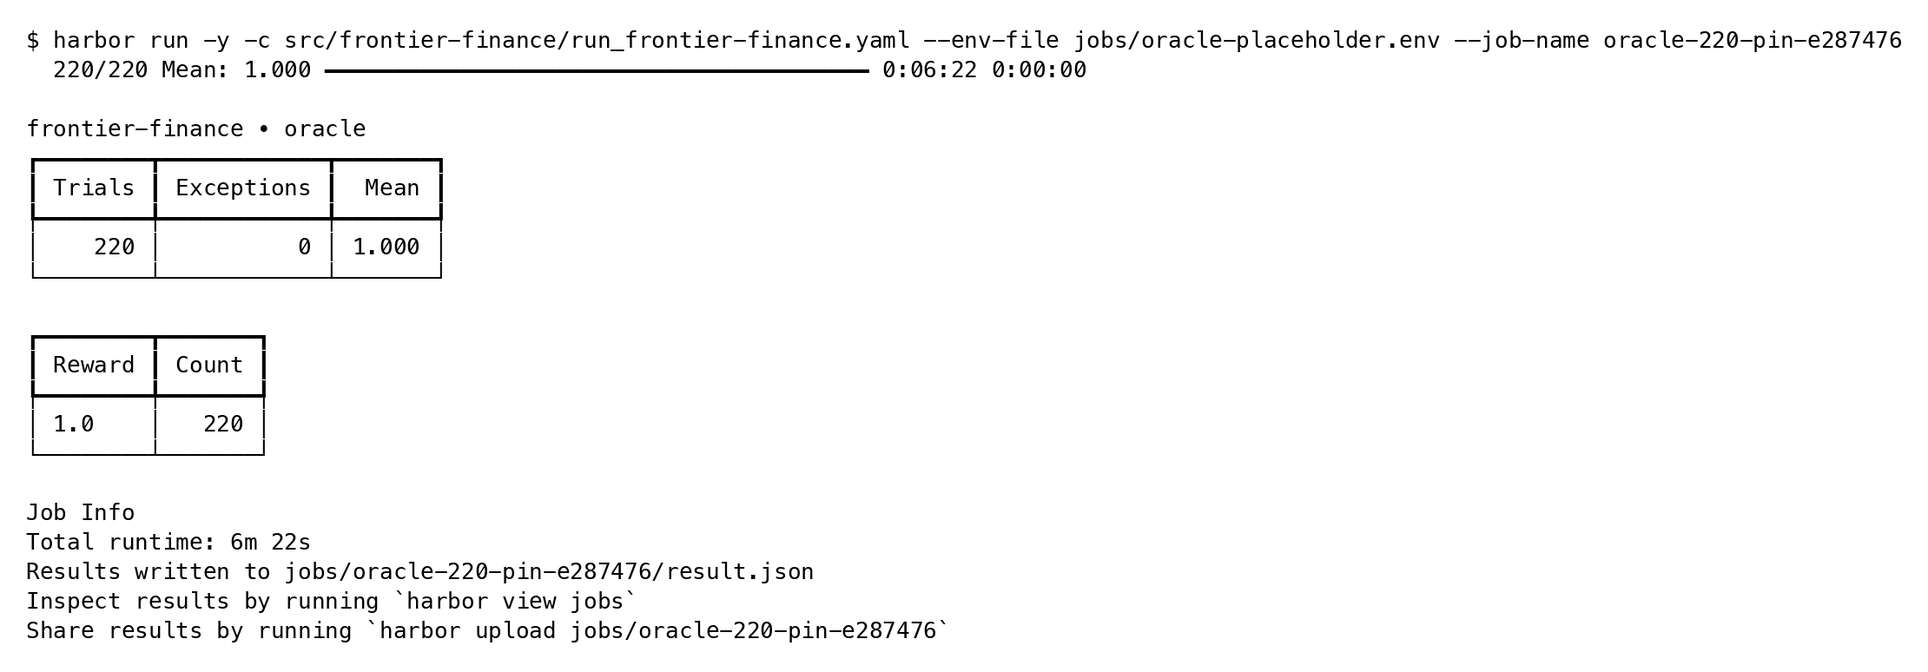
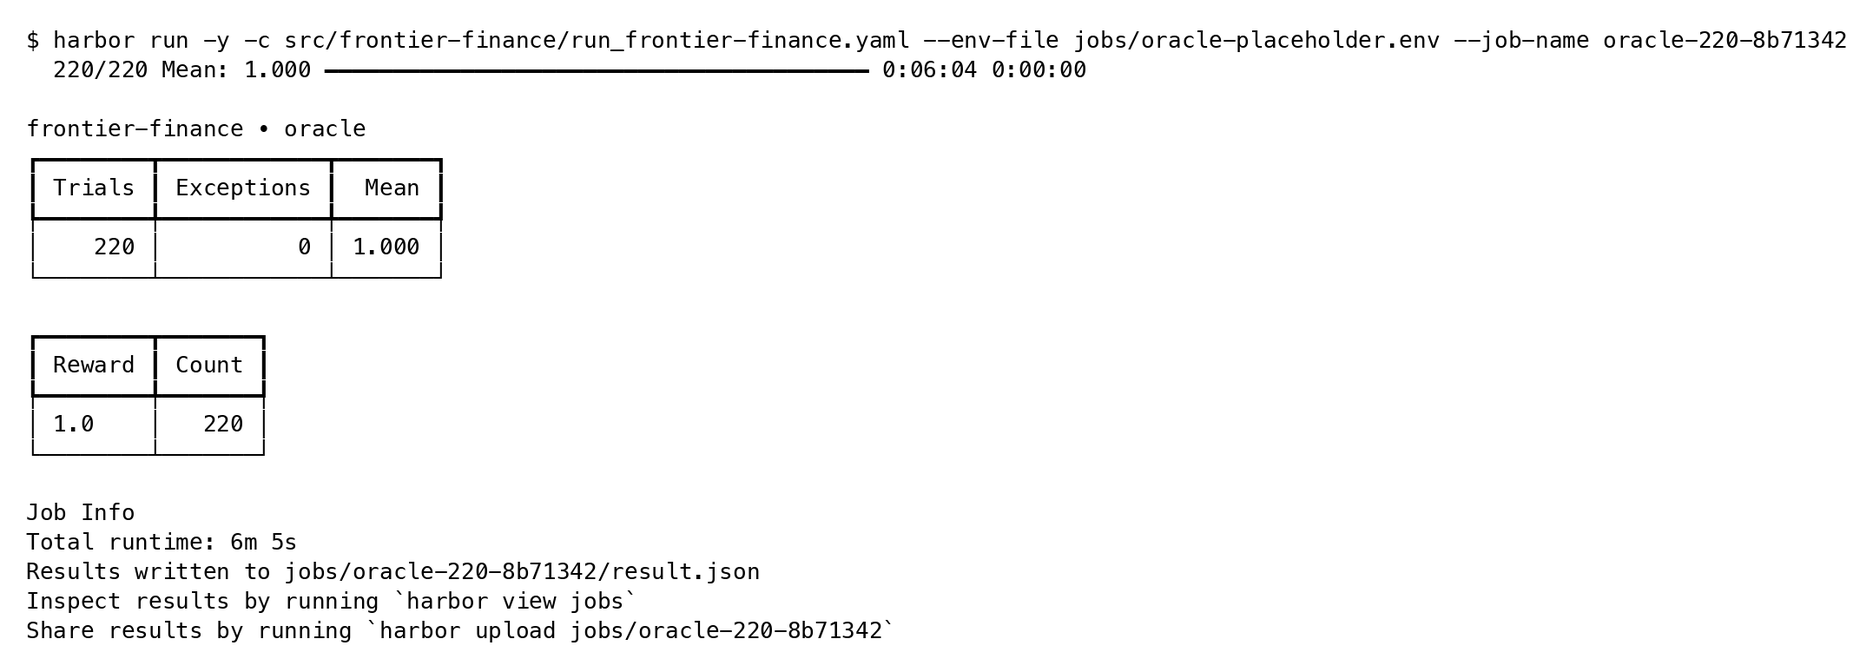
frontier-finance: grade with the unmodified upstream grader and judge panel
Pin the grader back to upstream 8b71342 and drop the parity judge panel.
Parity is the same 66 reports regraded with the upstream panel:
original 0.3334 +/- 0.0026, Harbor 0.3648 +/- 0.0272, ranges overlap.
Oracle 220/220 rerun at 8b71342.

diff --git a/src/frontier-finance/src/frontier_finance/task-template/tests/grade.py b/src/frontier-finance/src/frontier_finance/task-template/tests/grade.py
@@ -1,7 +1,6 @@
 """Grade /app/report.md with the upstream FrontierFinance grader.
 
-Uses the upstream ``frontier_finance`` package (pinned in the Dockerfile: upstream
-8b71342 plus one judge-compatibility change in judges.py) with
+Uses the unmodified ``frontier_finance`` package (pinned in the Dockerfile) with
 the judge panel and settings from upstream ``eval.example.yaml``, which the
 FrontierFinance authors used for their reported numbers.
 

diff --git a/src/frontier-finance/README.md b/src/frontier-finance/README.md
@@ -5,9 +5,9 @@
 FrontierFinance evaluates finance AI agents on open-ended, long-form research questions asked by investment professionals: company research, earnings and events, financial data and modeling, sector/industry/macro analysis, coverage and catalyst monitoring, and screening and discovery. Answers are free-form English reports graded against expert-authored rubrics by an LLM judge panel.
 
 - **Size:** 220 queries with 11,543 rubrics (3 to 475 rubrics per query, median 27; 65% marked `must_have`). This adapter converts **all 220 queries into 220 Harbor tasks** (one task per query). No queries are excluded.
-- **Provenance:** [samaya-ai/FrontierFinance](https://huggingface.co/datasets/samaya-ai/FrontierFinance) (Hugging Face dataset, revision `36afd6dc1cbb2c4512536daf917dc28b1225a720`) and the official grader [samaya-ai/frontier-finance](https://github.com/samaya-ai/frontier-finance) (commit `8b71342dc7730eb1803dd3934e17bc71c9922ec5`), installed from the parity fork's commit [`e287476`](https://github.com/Chaoqi31/frontier-finance/commit/e28747624053c3caca98489db9144c7c9372b34c), which adds one judge-compatibility change.
+- **Provenance:** [samaya-ai/FrontierFinance](https://huggingface.co/datasets/samaya-ai/FrontierFinance) (Hugging Face dataset, revision `36afd6dc1cbb2c4512536daf917dc28b1225a720`) and the official grader [samaya-ai/frontier-finance](https://github.com/samaya-ai/frontier-finance) (commit `8b71342dc7730eb1803dd3934e17bc71c9922ec5`), installed unmodified.
 - **License:** dataset CC-BY-4.0, grader Apache-2.0. The dataset is gated on Hugging Face; its terms ask users not to reshare it outside a gated or private repository.
-- **Main adaptation:** the original benchmark only grades responses produced by an external system. Here, the query becomes an agent instruction, the agent writes its report to `/app/report.md`, and the verifier runs the upstream grader on that report (upstream `8b71342` plus one judge-compatibility change, see Adapter Features).
+- **Main adaptation:** the original benchmark only grades responses produced by an external system. Here, the query becomes an agent instruction, the agent writes its report to `/app/report.md`, and the verifier runs the unmodified upstream grader on that report.
 
 ## What is FrontierFinance?
 
@@ -17,7 +17,7 @@ FrontierFinance ([blog](https://samaya.ai/blog/frontier-finance), [website](http
 
 - **Data loading:** downloads `frontier_finance_public.jsonl` from Hugging Face at a pinned revision (requires accepting the dataset terms and `hf auth login` / `HF_TOKEN`), or reads a local copy via `--data-path`.
 - **Stable task IDs:** `frontier-finance-<query_id>`, using the upstream 16-hex `query_id`; task names are `samaya-ai/frontier-finance__<query_id>`.
-- **Upstream grading:** the Docker image installs the `frontier-finance` grader at a pinned commit in an isolated virtualenv (`/opt/ff-grader`), using upstream's `uv.lock` so the judge SDK versions (anthropic 0.116.0, google-genai 2.10.0, openai 2.44.0) match upstream. `tests/grade.py` builds the upstream `EvalItem` from the task's rubrics and the agent's report and calls the upstream `Grader` with the judge panel and settings from upstream `eval.example.yaml` (`max_rubrics_per_call=30`, `max_tokens=32000`, `request_timeout=120`, `max_retries=2`, `max_json_parse_retries=1`). Prompts, batching, parsing, and majority voting are the upstream code. The pinned commit is upstream `8b71342` plus one change in `judges.py`, so that newer judge models accept the grader's requests: no `temperature` for Claude Haiku 5+ and GPT-6+, and `LOW` thinking when a Gemini 3 Flash model rejects `MINIMAL`. Requests to the default panel are unchanged.
+- **Upstream grading:** the Docker image installs the `frontier-finance` grader at a pinned commit in an isolated virtualenv (`/opt/ff-grader`), using upstream's `uv.lock` so the judge SDK versions (anthropic 0.116.0, google-genai 2.10.0, openai 2.44.0) match upstream. `tests/grade.py` builds the upstream `EvalItem` from the task's rubrics and the agent's report and calls the upstream `Grader` with the judge panel and settings from upstream `eval.example.yaml` (`max_rubrics_per_call=30`, `max_tokens=32000`, `request_timeout=120`, `max_retries=2`, `max_json_parse_retries=1`). Prompts, batching, parsing, and majority voting are the upstream code. The grader code is upstream `8b71342`, unchanged.
 - **Reward:** `reward` in `/logs/verifier/reward.json` is the task's rubric qualification rate, so over trials that produce a reward the Harbor mean equals upstream `macro_avg_qualification_rate_on_all_queries` (see Notes & Caveats for trials without a reward). Per-rubric judgements and the `must_have` qualification rate are written to `/logs/verifier/grading.json`.
 - **Rubrics hidden from the agent:** rubrics live only in `tests/`, which Harbor copies in after the agent finishes.
 - **Internet access:** the agent needs web access for research, set explicitly with `network_mode = "public"` on the agent and the verifier. The verifier calls the Anthropic, Google, and OpenAI APIs.
@@ -125,27 +125,30 @@ Available flags:
 
 Parity matches: the run-score ranges of the two sides overlap (table below). Upstream ships a grader but no agent harness, so this is Scenario 2 of the adapter guide: a fork of the original benchmark adds a runner for a standard Harbor agent, and the same agent runs on both sides. The agent is `claude-code`, as in DeepSynth, Seal-0 and WideSearch, pinned to version 2.1.330 on both sides, with `claude-haiku-5-5` through the parity gateway. Each side runs the parity subset three times.
 
-**Model and judges.** Parity checks the adaptation, not model ability, so it uses cheap models, as agreed with the Harbor team. The judges are current cheap models from the three upstream judge vendors, in upstream's order: `claude-haiku-5-5`, `gemini-3.8-flash`, `gpt-6-luna` (`FF_JUDGE_MODELS` in `run_frontier-finance_parity.yaml`, `judge_models` in the fork's `harbor_parity/eval.parity.yaml`). The same panel grades both sides, so parity holds; the scores are not comparable with the upstream leaderboard, which uses the full panel. The Claude judge and the agent model share a vendor; any self-preference applies equally to both sides, so it does not affect the parity comparison. The task default stays the upstream panel. The grader carries one compatibility change in `frontier_finance/judges.py` for these newer judges, which the pinned upstream commit predates: no `temperature` for Claude Haiku 5+ and GPT-6+, which reject it, and `LOW` thinking when a Gemini 3 Flash model rejects `MINIMAL`. Prompts, batching, parsing and voting are unchanged, and the upstream panel is sent the same requests as before. Both sides install the grader from the same fork commit.
+**Model and judges.** Parity checks the adaptation, not model ability, so the agent uses a cheap model, as agreed with the Harbor team. Both sides are graded by the unmodified upstream grader at `8b71342` with upstream's judge panel and settings: `claude-sonnet-4-6`, `gemini-3.1-pro-preview`, `gpt-5.4` (the task default on the Harbor side; on the original side the fork's `harbor_parity/eval.parity.yaml`, which differs from upstream `eval.example.yaml` only in its paths). The Claude judge and the agent model share a vendor; any self-preference applies equally to both sides, so it does not affect the parity comparison. Grading matches upstream, but the scores are not comparable with the upstream leaderboard, because the agent, the model and the 11-task subset differ from the published systems.
 
 **Parity subset.** As agreed with the Harbor team, parity runs on 5% of the benchmark: 11 of the 220 queries (`--split parity`). Parity checks that the adaptation is faithful, not model ability, so a small representative subset is enough. Each query has exactly one use case, so the subset is stratified by use case: the 11 slots are allocated in proportion to each use case's share by largest remainder (financial data and modeling 3; company research, earnings and events, sector and macro 2 each; coverage and catalyst monitoring, screening and discovery 1 each), and the queries are drawn with `random.Random(0)` (`parity_subset` in `adapter.py`). The subset has 424 rubrics (6 to 84 per query) and spans query dates from 2024-08 to 2026-04. Its query IDs: `0de600d0386ab53c`, `7dc0e678415f1fd4`, `8d7ee1f40b5244a7`, `9488d3698bafd842`, `a7606d2a0a4bea29`, `bc435f09355f23bc`, `c1d3968daefa7a8e`, `e10acfd0ef14a72c`, `e74672d9b526d701`, `f84db8e5d5d58f43`, `f89b633e396a1d7d`.
 
 | Agent | Model | Metric | Number of Runs | Dataset Size | Original Benchmark Performance | Harbor Adapter Performance |
 |-------|-------|--------|------------------|--------------|------------------------------|----------------------------|
-| claude-code@2.1.330 | claude-haiku-5-5 | Macro rubric qualification rate | 3 | 11 tasks (5% of 220) | 0.3189 ± 0.0207 | 0.3448 ± 0.0326 |
+| claude-code@2.1.330 | claude-haiku-5-5 | Macro rubric qualification rate | 3 | 11 tasks (5% of 220) | 0.3334 ± 0.0026 | 0.3648 ± 0.0272 |
 
-Scores are mean ± sample SEM over runs, as fractions. Original runs: 0.3272, 0.3499, 0.2795 (range 0.280 to 0.350). Harbor runs: 0.4064, 0.2957, 0.3324 (range 0.296 to 0.406). The ranges overlap. Paired by task (Harbor minus original, each task's mean over its three runs), the difference is +0.026 with a 95% interval of [-0.027, +0.079] over the 11 tasks: 5 tasks higher on Harbor, 4 lower, 2 equal. So the experiment rules out a difference larger than about 0.08 in Harbor's favour or 0.03 against it on these tasks. One task, `8d7ee1f4`, scored higher on Harbor in all three runs (0.50 to 0.59 against 0.27 to 0.41); in the first set of original-side runs below it scored 0.55, 0.55 and 0.18, so it is a high-variance task rather than a systematic gap (one Harbor run answered it from memory in two turns and still scored 0.55).
+Scores are mean ± sample SEM over runs, as fractions. Original runs: 0.3355, 0.3365, 0.3281 (range 0.328 to 0.337). Harbor runs: 0.4144, 0.3208, 0.3591 (range 0.321 to 0.414). The ranges overlap. Paired by task (Harbor minus original, each task's mean over its three runs), the difference is +0.031 with a 95% interval of [-0.021, +0.083] over the 11 tasks: 7 tasks higher on Harbor, 4 lower. So the experiment rules out a difference larger than about 0.08 in Harbor's favour or 0.02 against it on these tasks. One task, `8d7ee1f4`, scored higher on Harbor in all three runs (0.55 to 0.59 against 0.36 to 0.41). With three runs per side, the chance that one task's six runs separate completely with no real difference is 2/C(6,3) = 0.1, so about 1 of the 11 tasks is expected to do so by chance. In the first set of original-side runs below it scored 0.55, 0.55 and 0.18 (earlier panel), and report lengths show no systematic difference (the Harbor report is longer on 6 of 11 tasks, median length ratio 1.00). It is read as run-to-run variance; no extra runs were made.
 
-All 66 agent runs (11 queries × 3 runs × 2 sides) ended with claude-code status `success` and a report, so no run was rerun, and all three judges voted on every query, so no query needed a regrade.
+All 66 agent runs (11 queries × 3 runs × 2 sides) ended with claude-code status `success` and a report, so no run was rerun, and all three judges voted on every query, so no query needed a regrade. No report matched an oracle report, so every query went through the judges.
 
-**Two sets of original-side runs.** The original side was run twice. In the first set, its install step used `apt-get install -y --no-install-recommends curl bash nodejs npm procps` at image build time, while Harbor runs `apt-get update && apt-get install -y nodejs npm procps` at agent setup (the image already has curl and bash), which also pulls in Debian's recommended packages. That set (0.3868, 0.4017, 0.2734; 0.3540 ± 0.0405) also overlapped the Harbor runs. To make the install step identical, the runner now uses Harbor's exact command (fork commit `ada6995`) and the original side was run three more times; those runs are the ones reported above. The first set's artifacts are kept in the fork's run records.
+**Earlier runs and gradings.** The reported numbers are the third comparison; all three overlapped.
+1. A first set of original-side runs, graded like the Harbor runs with a cheap judge panel (`claude-haiku-5-5`, `gemini-3.8-flash`, `gpt-6-luna`) through a grader fork that let the pinned commit call these newer models: original 0.3868, 0.4017, 0.2734 (0.3540 ± 0.0405), Harbor 0.4064, 0.2957, 0.3324 (0.3448 ± 0.0326). Its install step used `apt-get install -y --no-install-recommends curl bash nodejs npm procps` at image build time, while Harbor runs `apt-get update && apt-get install -y nodejs npm procps` at agent setup (the image already has curl and bash), which also pulls in Debian's recommended packages.
+2. To make the install step identical, the runner now uses Harbor's exact command (fork commit `ada6995`), and the original side was run three more times. With the cheap panel: original 0.3272, 0.3499, 0.2795 (0.3189 ± 0.0207) against the same Harbor runs.
+3. To drop the grader change, the 33 original-side reports of step 2 and the 33 Harbor reports were regraded with the upstream panel and the unmodified grader (the upstream CLI on the original side, `harbor job regrade` on the Harbor side). This switch was decided before the regrade's outcome was known. These are the numbers in the table. The agent runs were not repeated, so the Harbor agent containers still held the earlier grader fork in `/opt/ff-grader`, which the agent does not use; grading ran in fresh verifier containers built with the unmodified grader.
 
-**Cross-grade.** The 11 reports of Harbor run 2 were also graded twice with the upstream CLI (`collect --summaries`, then `frontier-finance-grader` with `harbor_parity/eval.parity.yaml`). Over the 424 rubric labels, Harbor and the CLI agree on 417 (98.3%) and 414 (97.6%), and the two CLI gradings agree with each other on 413 (97.4%). The macro is 0.2957 in Harbor and 0.3065 and 0.2958 from the CLI. The parity judges run without `temperature=0` (Claude Haiku 5+ and GPT-6+ reject it), so repeated gradings of one report differ on a few rubrics; the Harbor and CLI paths differ no more than the CLI differs from itself.
+**Cross-grade (earlier panel).** Before the switch, the 11 reports of Harbor run 2 were also graded twice with the upstream CLI and the cheap panel (`collect --summaries`, then `frontier-finance-grader`). Over the 424 rubric labels, Harbor and the CLI agree on 417 (98.3%) and 414 (97.6%), and the two CLI gradings agree with each other on 413 (97.4%). The macro is 0.2957 in Harbor and 0.3065 and 0.2958 from the CLI. Those judges ran without `temperature=0`, so repeated gradings of one report differ on a few rubrics; the Harbor and CLI paths differ no more than the CLI differs from itself. The check compares the two grading paths, which run the same grader code either way.
 
-Both sides ran on Daytona, 8 at a time, through the same gateway. Everything (judge checks, sanity run, both sets of original-side runs, the Harbor runs and the cross-grades) cost about $11.70 on the gateway's billing; claude-code reports $8.69 of it for the 99 agent runs.
+Both sides ran on Daytona, 8 at a time, through the same gateway. Everything (judge checks, sanity run, both sets of original-side runs, the Harbor runs, the cross-grades and the upstream-panel regrade) cost about $22.30 on the gateway's billing. The regrade of 66 reports with the upstream panel was $10.40 of it, and claude-code reports $8.69 for the 99 agent runs.
 
 Both sides run the same `claude-code` version and model with Harbor's flags (`--verbose --output-format=stream-json --permission-mode=bypassPermissions --print`) and environment variables, including the model aliases Harbor sets for a custom base URL. Host variables that Harbor reads into claude-code's flags or environment (`CLAUDE_CODE_MAX_TURNS`, `CLAUDE_CODE_EFFORT_LEVEL`, `MAX_THINKING_TOKENS`, `CLAUDE_CODE_MAX_OUTPUT_TOKENS`, `CLAUDE_CODE_DISABLE_ADAPTIVE_THINKING`, the alias variables) stay unset on both sides; the original-side runner refuses to start if any is set. Both use the same `instruction.md` on stdin, the same 3600 s agent limit and resources from `task.toml`, and the same concurrency. The original side runs each query in a fresh container built from the task's own `environment/Dockerfile` plus Harbor's claude-code install step, and `/app/report.md` becomes the query's `system_summary` for the upstream grader.
 
-- Original parity repository: [Chaoqi31/frontier-finance, branch `harbor-parity`](https://github.com/Chaoqi31/frontier-finance/tree/harbor-parity/harbor_parity), a fork of [samaya-ai/frontier-finance](https://github.com/samaya-ai/frontier-finance) @ `8b71342` that adds `harbor_parity/` and the judge-compatibility change in `frontier_finance/judges.py`
+- Original parity repository: [Chaoqi31/frontier-finance, branch `harbor-parity`](https://github.com/Chaoqi31/frontier-finance/tree/harbor-parity/harbor_parity), a fork of [samaya-ai/frontier-finance](https://github.com/samaya-ai/frontier-finance) @ `8b71342` that adds `harbor_parity/` and leaves the grader unchanged
 
 Reproduction (keys come from the environment):
 
@@ -170,8 +173,8 @@ Grading follows one rule too. A query whose grading lost any judge's votes (`jud
 
 ## Notes & Caveats
 
-- **Oracle solutions are constructed.** FrontierFinance ships rubrics but no reference answers. Following the adapter guide ("Benchmarks without oracle solutions"), the adapter builds a reference report from each query's rubrics: each rubric is restated as a finding, and negative constraints ("Does not ...") are omitted because they are satisfied by omission. Because LLM judging is not deterministic, the verifier returns reward 1.0 without calling the judges when `/app/report.md` is byte-identical to the task's oracle report (the same approach as the Harbor GDPval adapter, [harbor-framework/harbor#1384](https://github.com/harbor-framework/harbor/pull/1384)). Any other report goes through the judge panel. CL-bench ([harbor-framework/harbor#728](https://github.com/harbor-framework/harbor/pull/728)) likewise skips its judge for the oracle. The oracle run therefore validates task generation, the environment, and the reward plumbing, but not the judge path. With the grader pinned to fork commit `e287476`, the full oracle run on Docker scores 220/220 at 1.0 with 0 exceptions.
-- **Judge-path check.** `judge_calibration.py` regrades a recorded oracle job through the real judge panel with `FF_ORACLE_SHORTCUT=0`, in two conditions: each task's own oracle report (positive control) and another task's oracle report (negative control, reports rotated by one). The judges work if the positive control scores high and the negative control scores near 0. The constructed reports are bullet lists, so the 131 "Format & Presentation" rubrics (for example "presents the data in a table") are not expected to pass, and the positive control is not expected to reach 1.0. With the parity judge panel (`claude-haiku-5-5`, `gemini-3.8-flash`, `gpt-6-luna`) on the 5 parity tasks with the fewest rubrics (`0de600d0386ab53c`, `8d7ee1f40b5244a7`, `a7606d2a0a4bea29`, `e74672d9b526d701`, `f84db8e5d5d58f43`; 74 rubrics, 15 judge calls per condition), all three judges voted on every task: the positive control scored 0.976 ± 0.016 (SEM; 3 tasks at 1.0, the others 0.955 and 0.923) and the negative control 0.011 ± 0.011 (4 tasks at 0, one at 0.053). The upstream panel (`claude-sonnet-4-6`, `gemini-3.1-pro-preview`, `gpt-5.4`, the task default) on the same 5 tasks also voted on every task: positive control 0.985 ± 0.015 (4 tasks at 1.0, one at 0.923), negative control 0.000 (all 5 at 0). So the default panel runs end to end through the grader, whose compatibility change does not touch the requests sent to these three models.
+- **Oracle solutions are constructed.** FrontierFinance ships rubrics but no reference answers. Following the adapter guide ("Benchmarks without oracle solutions"), the adapter builds a reference report from each query's rubrics: each rubric is restated as a finding, and negative constraints ("Does not ...") are omitted because they are satisfied by omission. Because LLM judging is not deterministic, the verifier returns reward 1.0 without calling the judges when `/app/report.md` is byte-identical to the task's oracle report (the same approach as the Harbor GDPval adapter, [harbor-framework/harbor#1384](https://github.com/harbor-framework/harbor/pull/1384)). Any other report goes through the judge panel. CL-bench ([harbor-framework/harbor#728](https://github.com/harbor-framework/harbor/pull/728)) likewise skips its judge for the oracle. The oracle run therefore validates task generation, the environment, and the reward plumbing, but not the judge path. With the unmodified grader at `8b71342`, the full oracle run on Docker scores 220/220 at 1.0 with 0 exceptions.
+- **Judge-path check.** `judge_calibration.py` regrades a recorded oracle job through the real judge panel with `FF_ORACLE_SHORTCUT=0`, in two conditions: each task's own oracle report (positive control) and another task's oracle report (negative control, reports rotated by one). The judges work if the positive control scores high and the negative control scores near 0. The constructed reports are bullet lists, so the 131 "Format & Presentation" rubrics (for example "presents the data in a table") are not expected to pass, and the positive control is not expected to reach 1.0. With the upstream panel (`claude-sonnet-4-6`, `gemini-3.1-pro-preview`, `gpt-5.4`, the task default) on the 5 parity tasks with the fewest rubrics (`0de600d0386ab53c`, `8d7ee1f40b5244a7`, `a7606d2a0a4bea29`, `e74672d9b526d701`, `f84db8e5d5d58f43`; 74 rubrics, 15 judge calls per condition), all three judges voted on every task: the positive control scored 0.985 ± 0.015 (SEM; 4 tasks at 1.0, one at 0.923) and the negative control 0.000 (all 5 at 0). This check ran while the grader carried the earlier change, which did not alter the requests sent to these three models; the parity regrade then ran the same panel through the unmodified grader on 66 real reports, with every judge voting on every query. An earlier check with the cheap panel scored 0.976 ± 0.016 and 0.011 ± 0.011.
 
   ```bash
   # from the adapters repo root; the oracle job itself makes no judge calls
@@ -181,7 +184,6 @@ Grading follows one rule too. A query whose grading lost any judge's votes (`jud
   harbor job regrade jobs/calib-oracle-20-swapped -p datasets/frontier-finance --ve FF_ORACLE_SHORTCUT=0 --job-name calib-neg
   uv run src/frontier-finance/judge_calibration.py summary jobs/calib-pos jobs/calib-neg
   ```
-  For the parity panel, add `--ve FF_JUDGE_MODELS=claude-haiku-5-5,gemini-3.8-flash,gpt-6-luna` to both regrades.
 - **Judge errors.** Upstream excludes a query from every metric when all judges fail on it (`judge_error`). In Harbor, the verifier then writes no reward and exits non-zero, so the trial is recorded as a verifier error rather than as a score. A partial judge failure is handled as upstream: the query is graded on the surviving votes. With two surviving judges a tie goes to the first judge in the panel, as upstream. `grading.json` records `judges_voted` and `failed_checks_by_judge`, and the verifier log prints a warning, so parity reports can count queries graded by fewer than three judges.
 - **Missing report.** A missing or empty `/app/report.md` (or a non-file at that path) corresponds to upstream `no_response` and receives reward 0, matching the `..._on_all_queries` metrics.
 - **Trials without a valid reward.** Harbor's job mean leaves out trials without a reward and trials whose recorded exception marks the reward invalid under Harbor's error policy (for example an API error), whereas upstream counts a missing response as 0. Parity therefore compares the mean reported by `collect`, which applies the rerun rule above to both sides, rather than Harbor's job mean.
@@ -204,7 +206,7 @@ Grading follows one rule too. A query whose grading lost any judge's votes (`jud
 - Judge API keys for the verifier: `ANTHROPIC_API_KEY`, `OPENAI_API_KEY`, `GEMINI_API_KEY`.
 - Optional: `ANTHROPIC_BASE_URL`, `OPENAI_BASE_URL`, `GOOGLE_GEMINI_BASE_URL` route the judges through a proxy (unset or empty means the provider default). For the parity gateway they are `https://app.ppapi.ai`, `https://app.ppapi.ai/v1` and `https://app.ppapi.ai`.
 - Optional: `FF_ORACLE_SHORTCUT=0` sends the oracle report through the judges instead of returning 1.0 (see the judge-path check). Like `FF_JUDGE_MODELS`, it reaches the verifier only via `--ve`.
-- Optional: `FF_JUDGE_MODELS` (comma-separated) overrides the judge panel. It reaches the verifier via `harbor run --ve FF_JUDGE_MODELS=...` or a job config's `verifier.env`; `run_frontier-finance_parity.yaml` sets the parity panel this way.
+- Optional: `FF_JUDGE_MODELS` (comma-separated) overrides the judge panel. It reaches the verifier via `harbor run --ve FF_JUDGE_MODELS=...` or a job config's `verifier.env`. Only models the pinned grader can call work: it sends `temperature=0` to Claude and OpenAI judges and `MINIMAL` thinking to Gemini Flash judges, which some newer models reject (for example Claude Haiku 5+, GPT-6+ and Gemini 3 Flash).
 
 ## Troubleshooting
 
